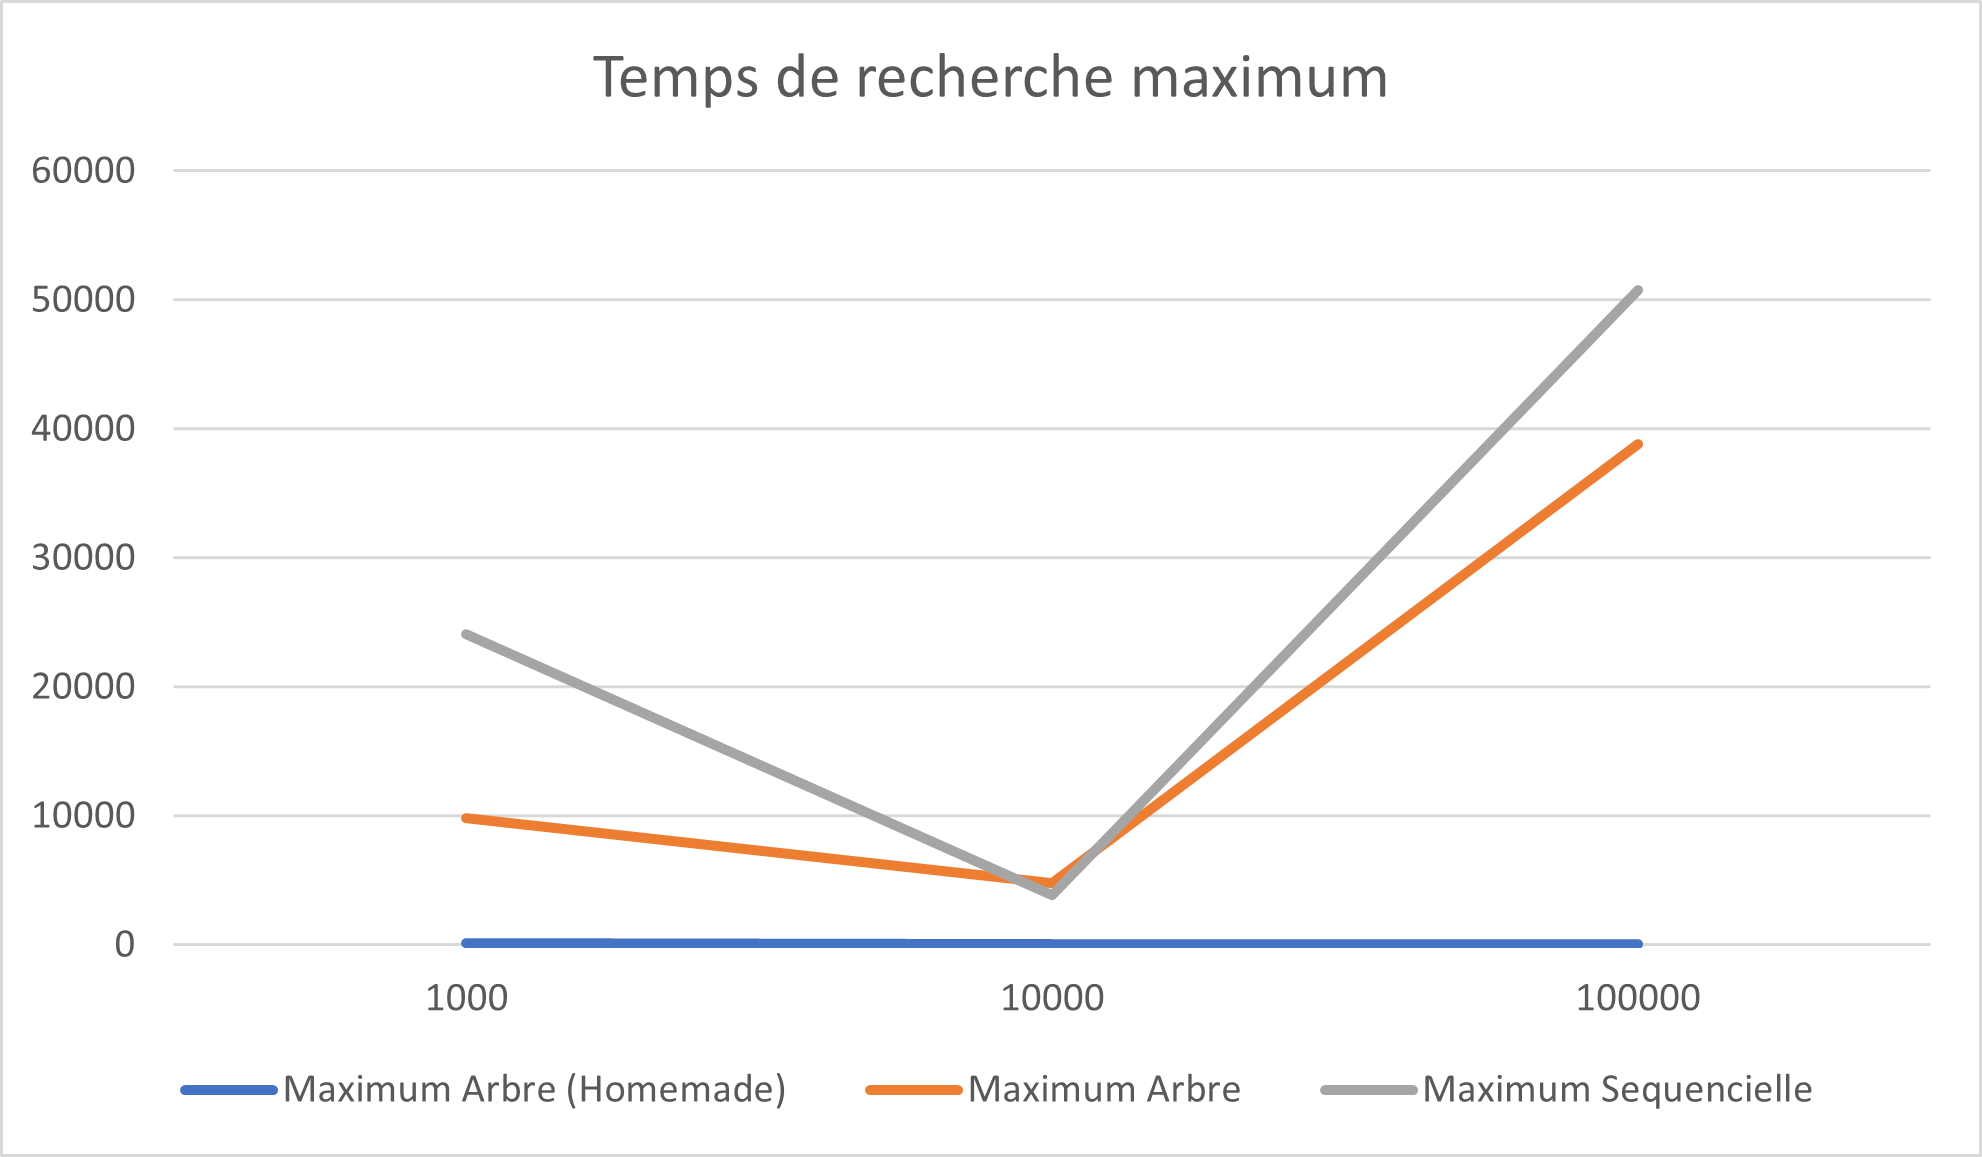
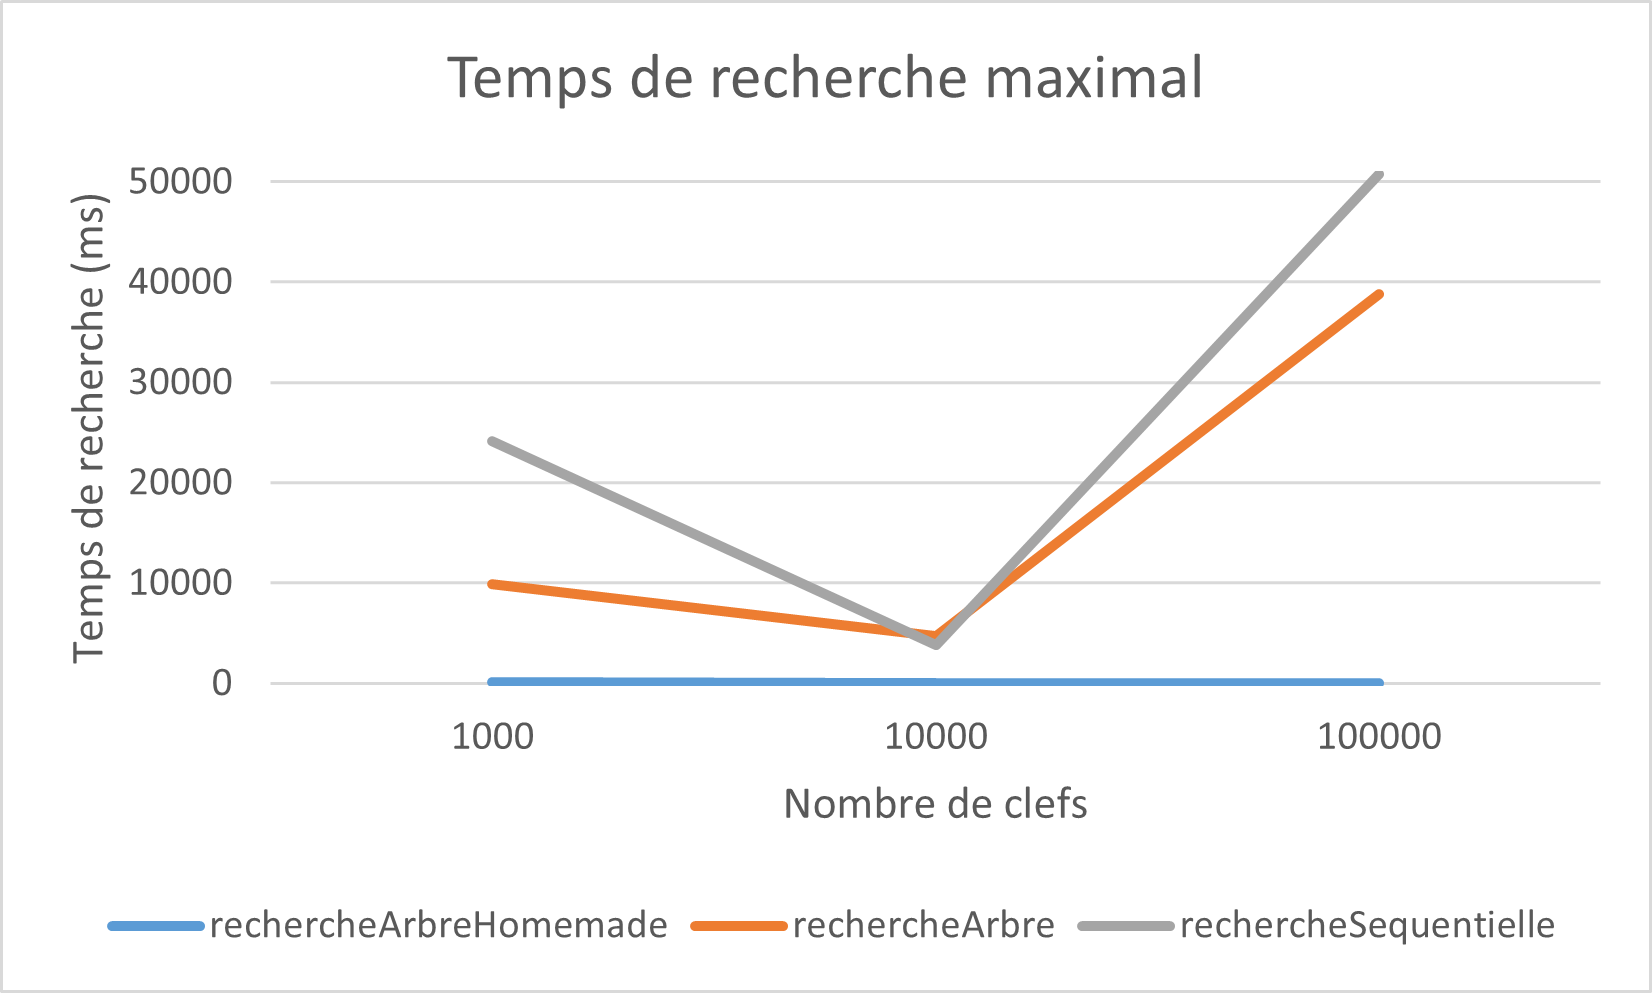
Ajout d'explications pour les méthodes de recherche, tournure de phrases changer

diff --git a/etude/README.md b/etude/README.md
@@ -1,16 +1,33 @@
 ## Etude
 
-Dans le cadre de notre projet nous avons été amené à étudier et comparer les temps de recherche d'une clef dans un arbre avec deux méthodes : la méthode de recherche séquentielle dans le fichier et la recherche depuis l'index (arbre).
+Dans le cadre de notre projet nous avons été amené à étudier et comparer les temps de recherche d'une clef dans un arbre avec deux méthodes : la méthode de recherche séquentielle (rechercheSéquentielle) dans le fichier de données et la recherche depuis grâce à l'index (rechercheArbre).
 
-Nous avons dans un premier temps modifié l'application afin d'avoir un nouveau main nous permettant de tester sans avoir à lancer l'interface graphique :
+Nous avons dans un premier temps créer un nouvel éxécutable nous permettant d'éxécuter des recherches selon les différentes méthodes dans l'arbre :
 
-Dans un premier temps nous avons pour la recherche depuis l'index, utilisé la fonction déjà fournie (rechercheArbre) par nos professeurs. Cependant, nous avions des résultats assez surprenant, nous avons donc pris la décision de recréer la méthode avec une nouvelle version que nous avons nommée rechercheArbreHomemade().
-En effet la méthode de recherche depuis l'index est sensée être plus rapide, or nous n'avons pas constaté cela avec fonction fournie, nous avons eu le contraire.
+Puis nous avons pour la recherche depuis l'index, utilisé la fonction contient(Type valeur) qui nous était déjà fournis dans Noeud.java par nos professeurs que nous avons appelé "rechercheArbre". 
+Pour la rechercheSéquentielle nous avons crée un algorythme qui s'éxécute en plusieurs étapes :
+1. L'algorythme regarde si les clefs contenus dans la racine sont égales à la valeur recherchée. Si oui on return la clef et on arrête là
+2. Sinon on push dans un stack les noeuds fils de la racine
+3. On pop le stack pour avoir un noeud fils de la racine, et on recommence au 1. en remplaçant la racine par le noeud obtenu depuis le stack
+4. Quand on descend suffisament pour que le noeud n'est plus de fils, plus de noeuds ne sont rajoutés dans la stack et de ce fait nous remontons petit à petit dans l'arbre en le balayant.
+5. Si plus aucun noeuds n'est présent dans le stack et que nous n'avons toujours pas trouvé la clef, on retourne null
+
+En éxécutant rechercheArbre et rechercheSequentielle, nous obtenions des résultats assez surprenant, dans quelques cas rechercheSequentielle était plus rapide que rechercheArbre alors que théoriquement cela aurait du être l'inverse dû à la différence de compléxité théorique O(log(n)) et O(n) entre les 2 méthodes indépendament de leur implémentation.
+
+Nous avons donc décidé de recréer la méthode rechercheArbre que nous avons nommée rechercheArbreHomemade(), qui est une méthode de recherche via l'index de manière **itérative**, là où Noeud.contient est **récursif**.
+rechercheArbreHomemade implémente l'algorythme suivant:
+1. On définit un noeud, le premier étant la racine
+2. On créer une boucle while tant que result == null (result est la variable qui va contenir la clef qui a été trouvé)
+3. On itère sur les clefs du noeud, pour voir si la clef est égale à la clef que l'on recherche, si oui on remplace result par la clef et on sort de l'itération sur les clefs du noeud 
+4. sinon on applique testInteger.compare(clefATrouver, clef), afin de savoir si clefATrouver est plus petit que clef, si oui on remplace noeud par le noeud fils au même index que clef et on sort de l'itération sur les clefs du noeud.
+5. Si aucun noeud n'est plus petit que clefATrouver alors on remplace noeud par le dernier noeud fils dans l'arraylist puis on recommence à partir de 3.
+6. Si le noeud n'a plus de fils et que l'on a toujours pas trouvé la clef, alors on retourne null
+
+Avec cette nouvelle version de la méthode de recherche, on obtient des résultats qui concordent avec la théorie.
 
 ### Graphiques
 
-Voici ci-dessous les graphiques des résultats que nous avons obtenus sur un total de 100 recherche de clef. Sur ces graphiques, nous avons comparé les moyennes, les minimums et les temps maximums de recherche avec les deux méthodes et avec des échantillons de taille différentes (1000,10000 et 100000). 
-(Nous avons laissé la méthode initiale afin que vous puissiez voir les raisons qui nous on fait refaire la méthode)
+Voici ci-dessous les graphiques des résultats que nous avons obtenus sur un total de 100 recherche de clef. Sur ces graphiques, nous avons comparé les moyennes, les minimums et les temps maximums de recherche avec les trois méthodes et avec des échantillons de taille de clefs différentes (1000,10000 et 100000).
 
 Graphique des moyennes de temps de recherche :
 ![Graphique des moyennes](https://github.com/Gilles-Marco/b-tree/blob/master/etude/graphics/GraphMoyennes.png)
@@ -21,4 +38,4 @@ Graphique des temps de recherche minimum :
 Graphique des temps de recherche maximum :
 ![Graphique des maximums](https://github.com/Gilles-Marco/b-tree/blob/master/etude/graphics/GraphMaximums.png)
 
-Les résultats sont sans appels : la méthode de recherche depuis l'index est bien plus efficace que la recherche séquencielle. Effectivement, la différence est d'un facteur proche de 100 pour les moyennes entre les deux méthodes.
+Au vu des résultats la méthode de recherche depuis l'index est bien plus efficace que la recherche séquentielle du à la complexité des méthodes.
